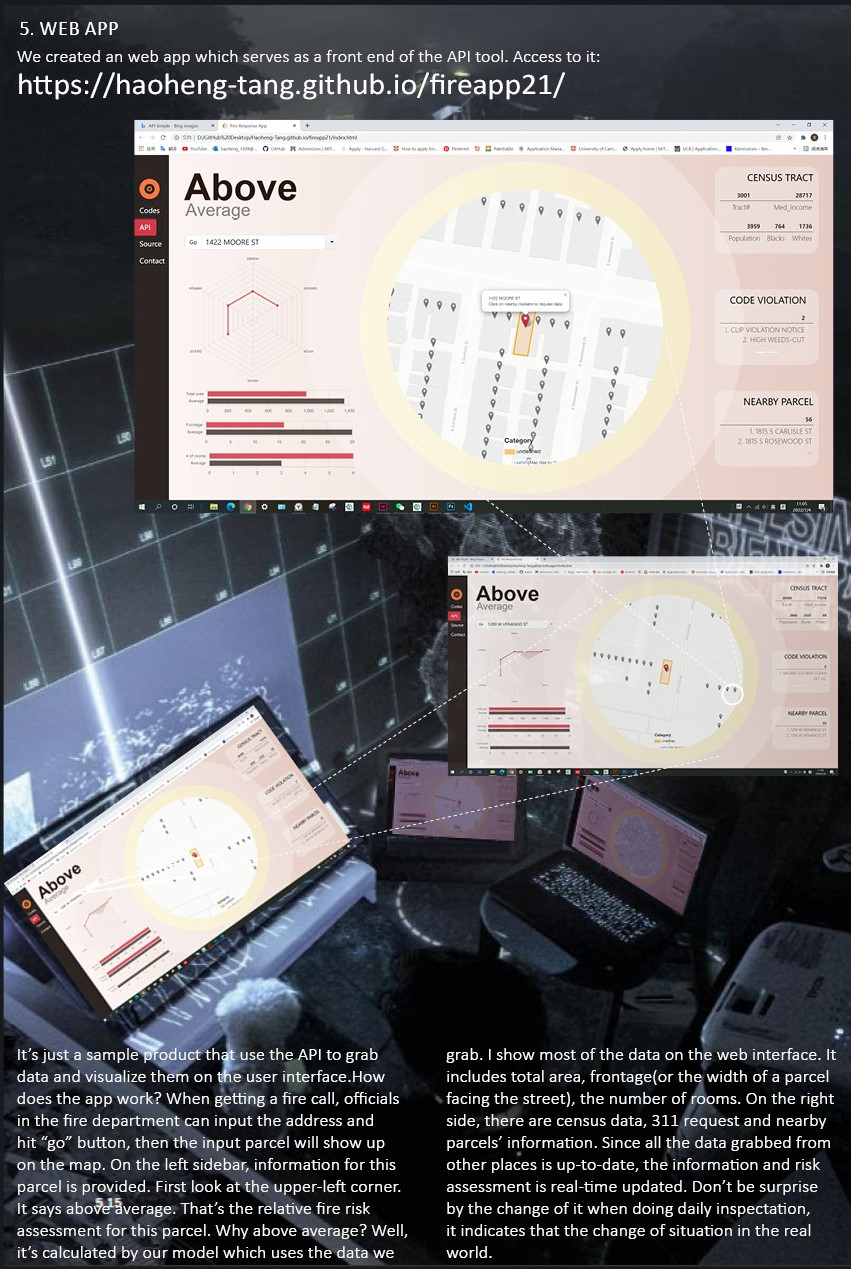
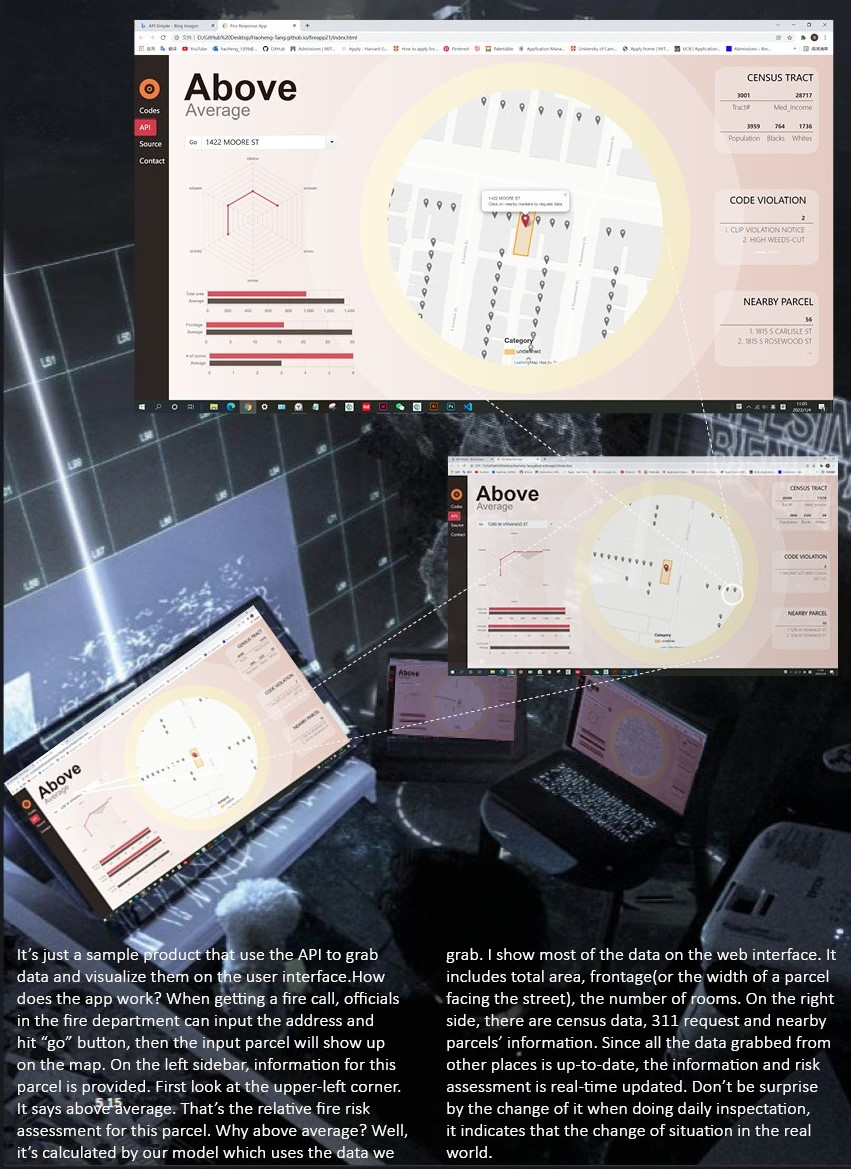
update fire api page

diff --git a/FireAPI.html b/FireAPI.html
@@ -139,7 +139,7 @@
           </br>
             We created a web app which serves as a front end of the API tool. Here is the access to it:
           </br>  
-            <a href="https://haoheng-tang.github.io/fireapp21/" target="_blank">https://haoheng-tang.github.io/fireapp21/</a>
+            <a href="https://haoheng-tang.github.io/fireapp21/" target="_blank"><i>https://haoheng-tang.github.io/fireapp21/</i></a>
           </p>
           <img src="images/Fire Response API and App/web app.jpg" style="width: 100%;">
         </section>
@@ -148,9 +148,9 @@
 
     <main>
       <article style="width: 91%; margin-left: auto; margin-right: auto;">
-        <section style="display: grid; grid-template-columns: repeat(2, 1fr);" class="imgholder">
+        <section style="display: grid; grid-template-columns: repeat(2, 1fr); gap: 1rem;" class="imgholder">
           <img src="images/Fire Response API and App/mobile_demo.jpg" style="width: 100%; grid-column: 1/span 1;">
-          <img src="images/Fire Response API and App/desktop_demo.jpg" style="width: 100%; grid-column: 2/span 1;">
+          <img src="images/Fire Response API and App/desktop_demo.jpg" style="width: 100%; grid-column: 1/span 1;">
           <img src="images/Fire Response API and App/pad_demo.jpg" style="width: 100%; grid-column: 2/span 1;">
 
           <img src="images/Fire Response API and App/firefighter.jpg" style="width: 100%; grid-column: 1/span 1;">

diff --git a/index.html b/index.html
@@ -73,10 +73,12 @@
           </a>
         </div>
 
-        <div class="card" style="grid-column: 9/span 4;">
-          <img src="images/Trees Breath/TreeTitlePageFinal.jpg" style="width: 100%;">
-          <h5 class="cardtitle"></br>Tree's Breath</h5>
-          <caption>Interactive Art Installation Design</caption>
+        <div class="card card-img-top" style="grid-column: 9/span 4;">
+          <a href="FireAPI.html">
+            <img src="images/Fire Response API and App/FireTitlePage.jpg" style="width: 100%;">
+            <h5 class="cardtitle"></br>Fire Response API and App</h5>
+            <caption>A practical tool to provide fire department with situational awareness</caption>
+          </a>
         </div>
 
       </section>
